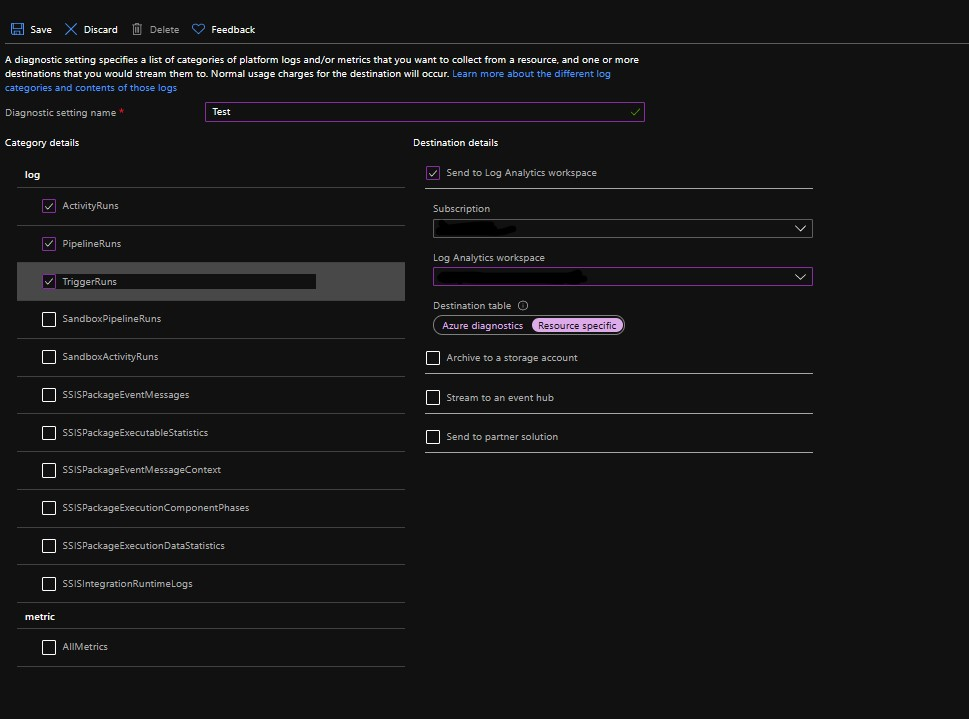
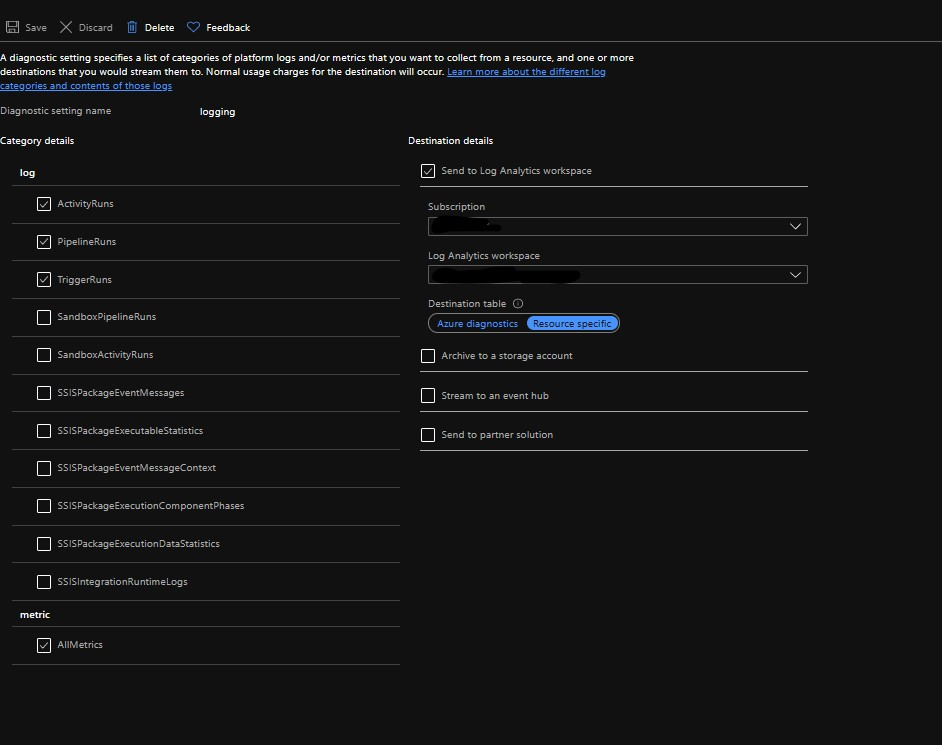
More to setup guide

Changed region(s): [[0.0, 0.0306, 1.0, 0.9179], [0.6465, 0.153, 0.6773, 0.1836]]

diff --git a/README.md b/README.md
@@ -24,5 +24,13 @@ The workbook supports answering questions:
 ## 1. Add dignostic settings from ADF / Synapse
 
 Goto diagnostic settings on your Data factory or Synapse instance and the add diagnostic settings.  
+![Goto to diagnostic settings](https://github.com/johantysklind/datafactory-loganlytics-workbook/blob/master/.github/images/add-diagnosticsettings1.jpg?raw=true)
 
-Then add ActivityRuns, PipielineRuns and trigger runs ( all can be checked ) and send that to the appropriate Log Analytics workspace. Use Resource Specific destination table. 
+
+
+Then add ActivityRuns, PipielineRuns, trigger runs and All metrics ( all can be checked ) and send that to the appropriate Log Analytics workspace. Use Resource Specific destination table. 
+![Setup diagnostic settings](https://github.com/johantysklind/datafactory-loganlytics-workbook/blob/master/.github/images/add-diagnosticsettings2.jpg?raw=true)
+
+
+
+
